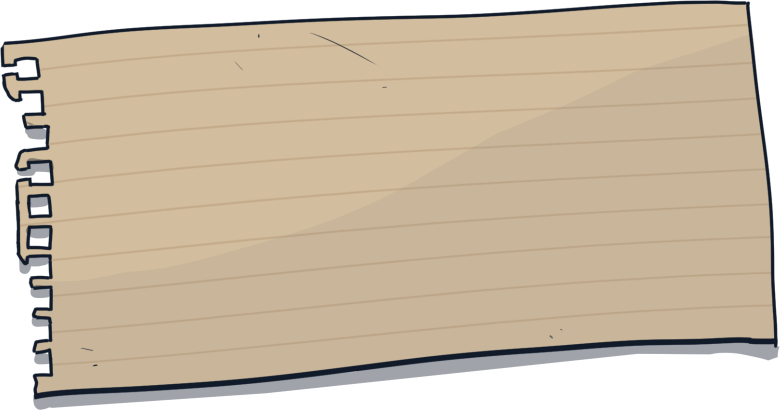
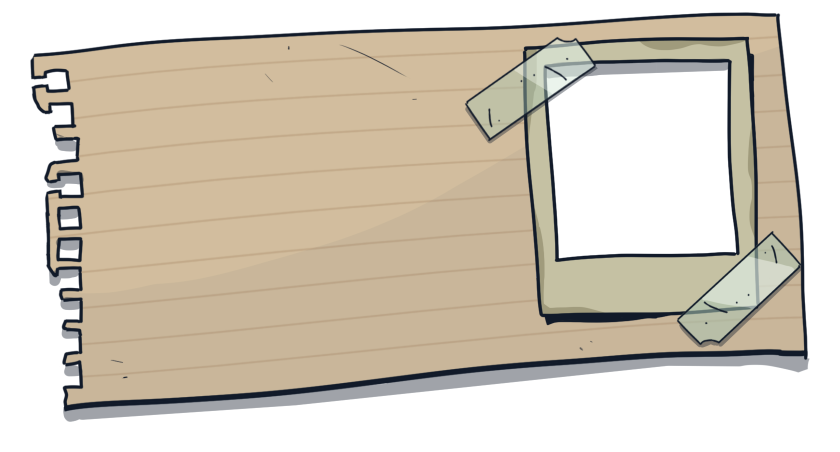
Update designs

diff --git a/app/test/notebook/leadCell.tsx b/app/test/notebook/leadCell.tsx
@@ -11,21 +11,21 @@ interface LeadCellProps {
 
 export const LeadCell = ({ lead }: LeadCellProps) => {
   return (
-    <div className="relative h-[205px] w-[390px] bg-no-repeat bg-[url('/kd/paper_bg.png')] bg-contain flex p-8 items-center justify-end">
-      <div
-        className={`w-[100px] h-[150px] flex flex-col items-start justify-center`}
-      >
-        <p className={`w-[100px] text-[#1A222F] ${handWriting.className}`}>
-          {lead}
-        </p>
-        <p
-          className={`flex items-center justify-center w-[80px] h-[36px] bg-no-repeat bg-contain text-[#A81600] text-center bg-[url('/kd/read_more_bg.png')] ${handWriting.className}`}
+    <div className="relative h-[205px] w-[390px] bg-no-repeat bg-contain flex p-[15px] items-center justify-end">
+      <div className="absolute h-[90px] w-[86px] bg-no-repeat bg-[url('/ghost.jpeg')] bg-cover bg-top -rotate-2 top-[26px] right-[71px]" />
+      <div className="absolute h-[205px] w-[390px] top-0 rigth-0 bg-no-repeat bg-[url('/kd/paper_bg.png')] bg-contain flex items-center justify-end">
+        <div
+          className={`absolute left-[60px] w-[100px] h-[150px] flex flex-col items-start justify-center -rotate-6`}
         >
-          Read more
-        </p>
-      </div>
-      <div className="relative h-[190px] w-[190px] bg-no-repeat bg-[url('/ghost.jpeg')] bg-[length:105px_105px] mt-[34px] bg-top">
-        <div className="relative h-[180px] w-[180px] bg-no-repeat bg-[url('/kd/photo_container_temp.png')] bg-contain -mt-[14px]" />
+          <p className={`w-[100px] text-[#1A222F] ${handWriting.className}`}>
+            {lead}
+          </p>
+          <p
+            className={`flex items-center justify-center w-[80px] h-[36px] bg-no-repeat bg-contain text-[#A81600] text-center bg-[url('/kd/read_more_bg.png')] ${handWriting.className}`}
+          >
+            Read more
+          </p>
+        </div>
       </div>
     </div>
   );
